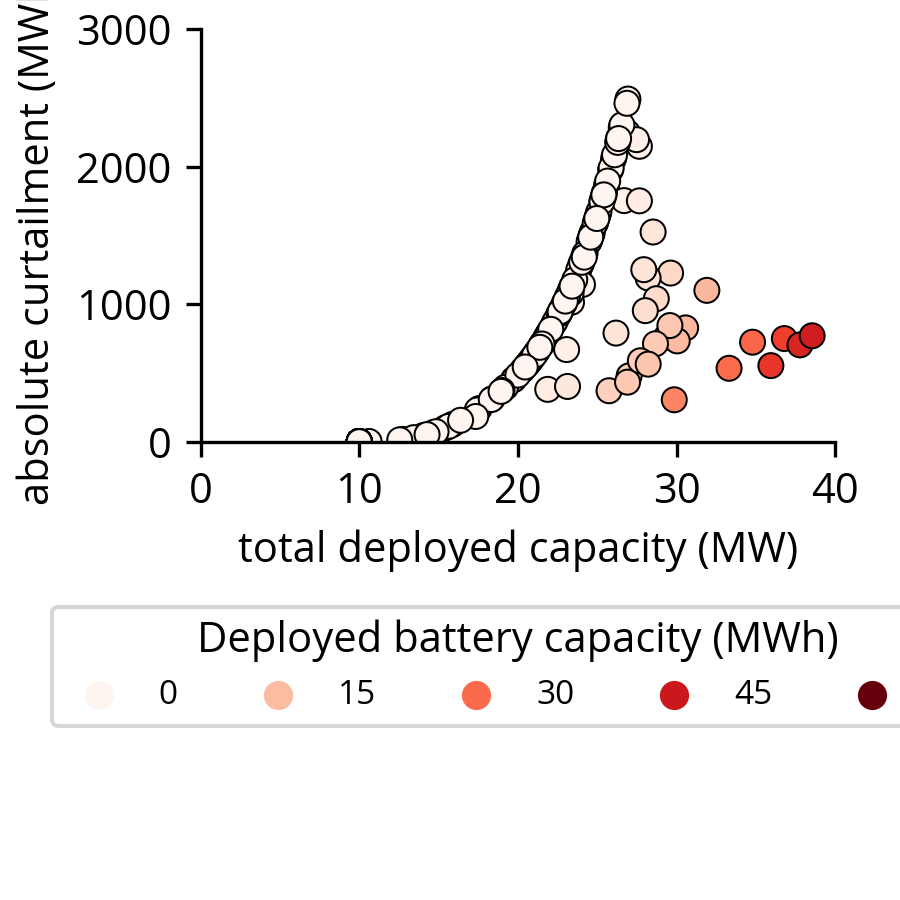
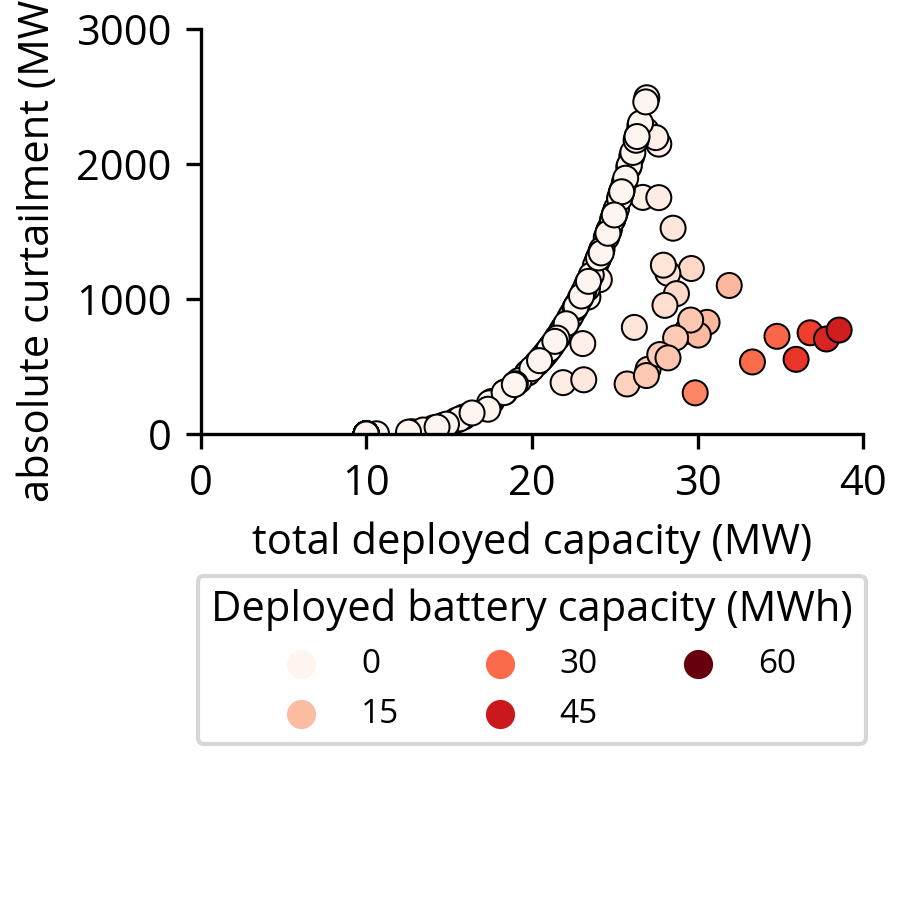
eddits on cheap bat to fix formatting

diff --git a/thesis scripts/experiments/cablepool/analysis/report_cablepool_postprocess_cheap.py b/thesis scripts/experiments/cablepool/analysis/report_cablepool_postprocess_cheap.py
@@ -33,7 +33,7 @@ df["total_installed_capacity"] = df[pv_col] + 10
 
 fig, ax = plt.subplots()
 fig, ax = default_matplotlib_style(fig, ax)
-fig.set_size_inches(6, 2.2)
+fig.set_size_inches(6, 2.5)
 sns.scatterplot(
     x="pv_cost_absolute",
     y=pv_col,
@@ -78,12 +78,12 @@ ax.set_xlim([0, 40])
 ax.set_ylabel("relative curtailment (%)")
 ax.set_ylim([0, 6])
 ax.legend(
-    bbox_to_anchor=(0.5, -0.4),
+    bbox_to_anchor=(0.5, -0.35),
     loc=9,
     borderaxespad=0.0,
     frameon=True,
     title="Deployed battery capacity (MWh)",
-    ncol=5,
+    ncol=3,
 )
 
 default_matplotlib_save(
@@ -109,16 +109,16 @@ sns.scatterplot(
 ax.set_xlabel("total deployed capacity (MW)")
 ax.set_xlim([0, 40])
 
-ax.set_ylabel("absolute curtailment (MWh)")
+ax.set_ylabel("curtailment (MWh)")
 ax.set_ylim([0, 3000])
 
 ax.legend(
-    bbox_to_anchor=(0.5, -0.4),
+    bbox_to_anchor=(0.5, -0.35),
     loc=9,
     borderaxespad=0.0,
     frameon=True,
     title="Deployed battery capacity (MWh)",
-    ncol=5,
+    ncol=3,
 )
 
 default_matplotlib_save(
@@ -149,7 +149,7 @@ sns.scatterplot(
     size=pv_col,
     hue=pv_col,
     data=df,
-    palette="dark:#5b8eb5",
+    palette="Reds",
     sizes=(5, 100),
     ax=ax,
     edgecolor="black",
@@ -174,7 +174,7 @@ default_matplotlib_save(fig, "report_cablepool_cheapbat_bivariate_deployment.png
 
 fig, ax = plt.subplots()
 fig, ax = default_matplotlib_style(fig, ax)
-fig.set_size_inches(6, 2.2)
+fig.set_size_inches(6, 2.5)
 sns.scatterplot(
     x="battery_cost_absolute_2h",
     y=bat_col,
